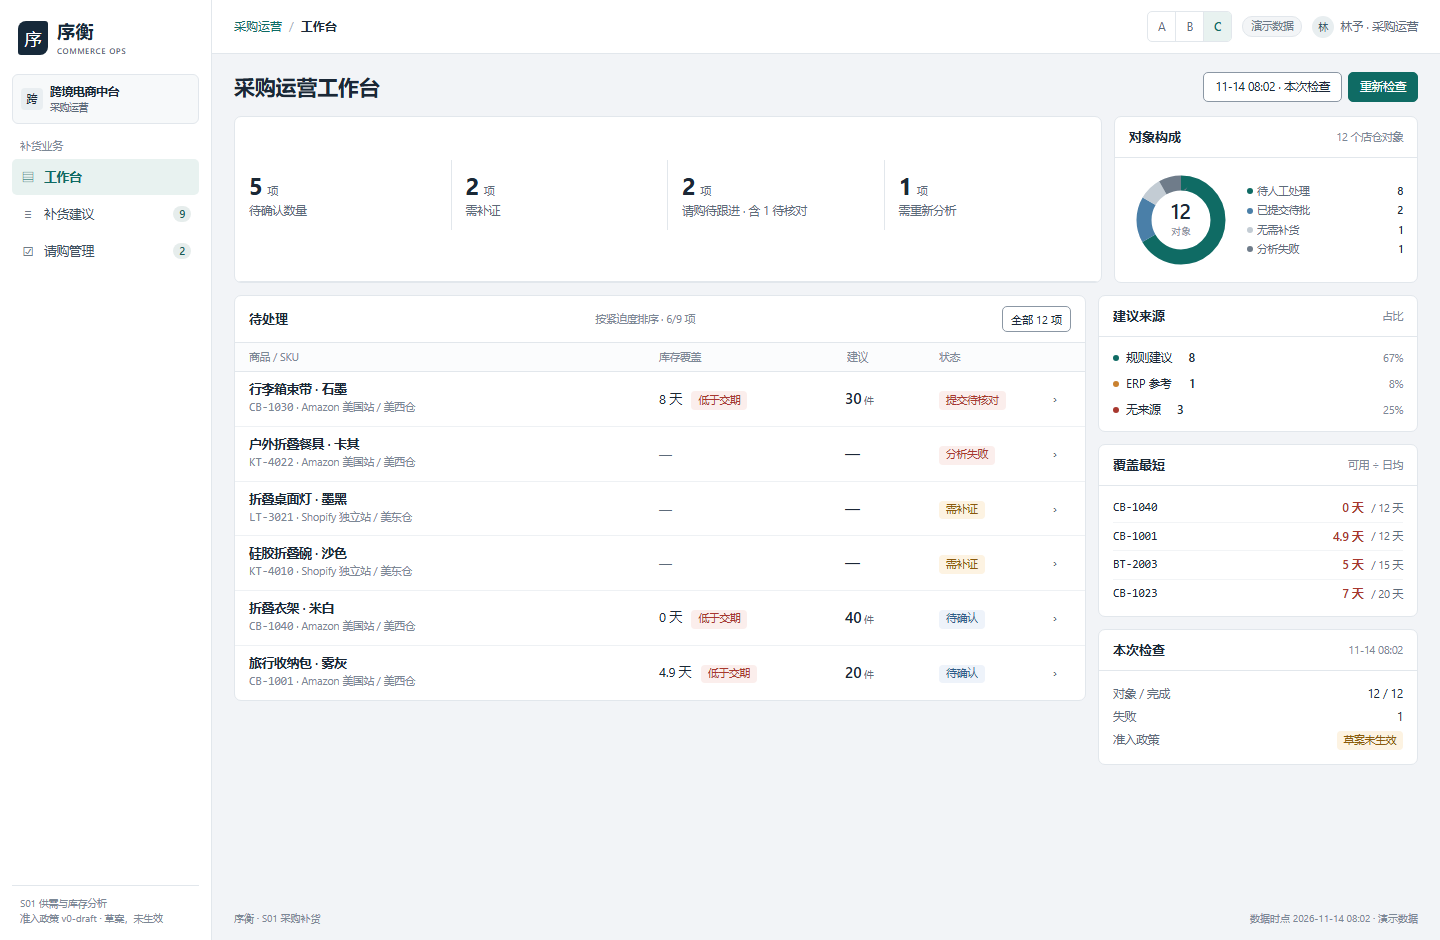
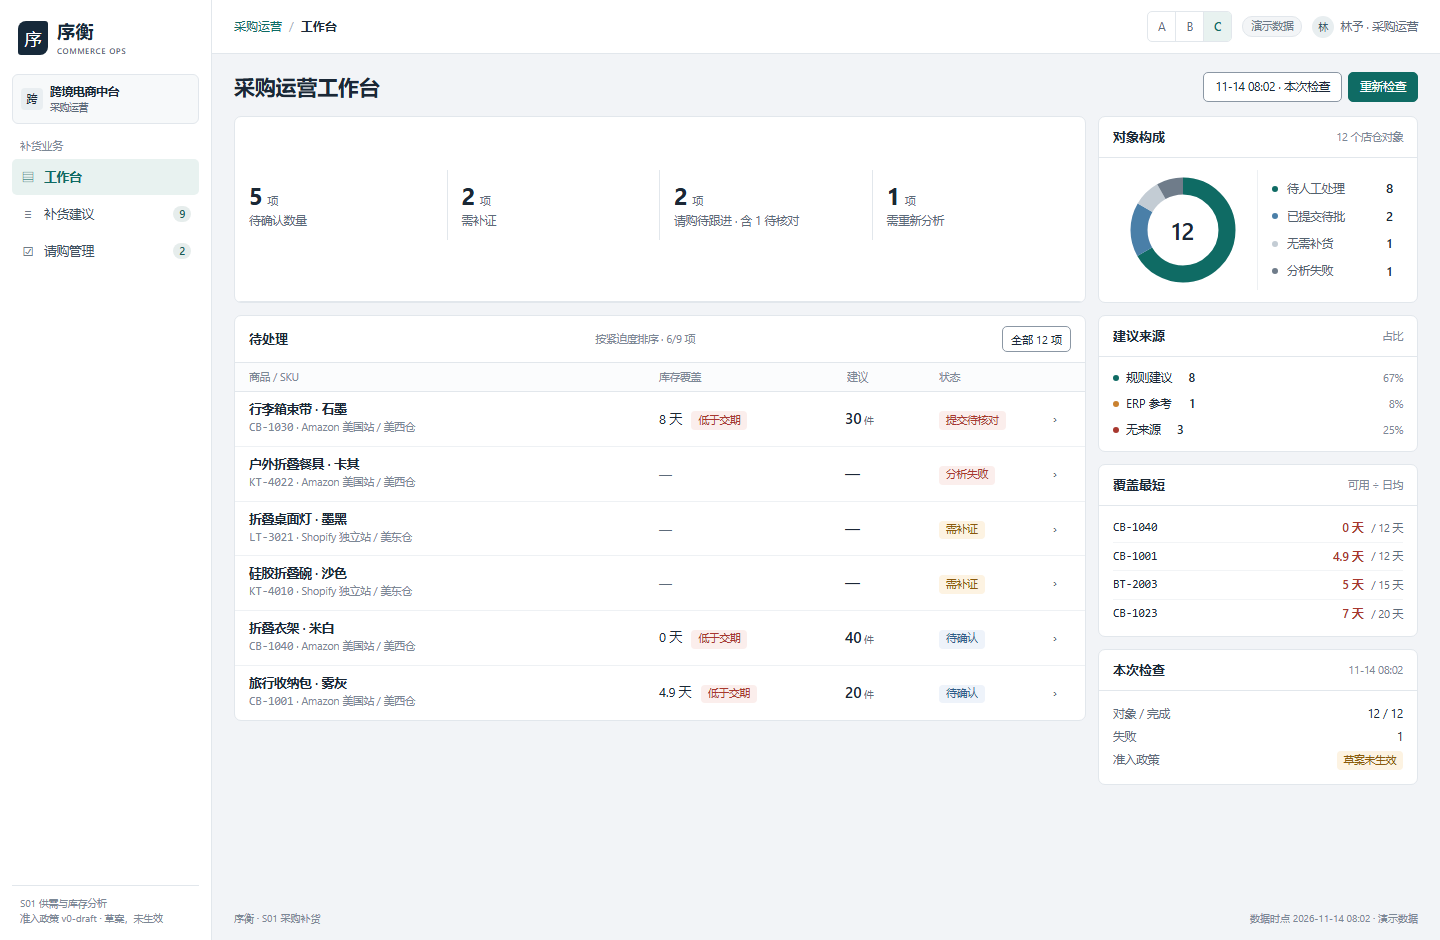
fix(ux): split the composition panel into donut-left / counts-right (v3.2.1)
只改原型、测试、设计文档与截图。

问题
- 对象构成卡在 1280 以下被拆成整行，图例用 margin-left:auto 把数字顶到最右，
  中间留出数百像素空白；圆心还压着“对象”二字，占位但不携带信息

改动
- 卡片布局改为左半环形 / 右半计数，中线分隔，两侧各占一半；环形 104→120px
- 圆心只留总数，删除“对象”二字（垂直居中，dominant-baseline）
- KPI 与构成并排的下限由 1280 降到 900：1080 视口下不再拆行，空白随之消失
- <900 栈叠时构成占满整行，计数铺 2×2（每列 190px 居中），不再只挤在左侧

验证
- _e2e.cjs 改为 file:// 直开（无需本地服务器），78 项断言全通过，新增：
  圆心无“对象”、左饼右数两列宽度对称、计数合计=圆心总数
- 新增 screenshots/after/18-工作台-1080.png 对应本次反馈的视口

REVIEW，不合 main。

diff --git a/prototypes/s01-workbench-v3/index.html b/prototypes/s01-workbench-v3/index.html
@@ -241,14 +241,16 @@ dialog::backdrop{background:#12283b55}
 .close{border:0;background:none;font-size:19px;color:var(--muted);line-height:1}
 #toast{position:fixed;left:50%;bottom:20px;transform:translateX(-50%);background:#16293a;color:#fff;padding:9px 15px;border-radius:5px;font-size:11.5px;z-index:50;max-width:calc(100vw - 24px)}
 /* ---------- v3.2 新增：环形图 / 排行榜 / AI 分区 / 底部操作条 ---------- */
-.wb-top{display:grid;grid-template-columns:minmax(0,1fr) 304px;gap:12px;margin-bottom:12px;align-items:stretch}
+.wb-top{display:grid;grid-template-columns:minmax(0,1fr) 320px;gap:12px;margin-bottom:12px;align-items:stretch}
 .wb-top>.panel{margin:0;display:flex;flex-direction:column}
 .wb-top .kpis{height:100%;align-content:center}
-.donut{display:flex;align-items:center;gap:14px}
-.donut svg{flex:none}
-.dlegend{display:grid;grid-template-columns:1fr;gap:3px;font-size:10.5px;color:var(--muted);min-width:0;flex:1}
-.dlegend span{display:flex;align-items:center;gap:4px;white-space:nowrap;min-width:0}
-.dlegend b{color:var(--ink);font-weight:600;margin-left:auto;padding-left:6px}
+.donut-body{display:grid;grid-template-columns:minmax(0,1fr) minmax(0,1fr);align-items:center;max-width:440px;margin:0 auto;padding:12px 16px}
+.donut-side{display:flex;align-items:center;justify-content:center;padding-right:14px;border-right:1px solid #edf0f3}
+.donut-side svg{display:block}
+.dstats{display:grid;align-content:center;padding-left:14px;min-width:0}
+.dstat{display:grid;grid-template-columns:7px minmax(0,1fr) auto;align-items:center;gap:8px;padding:4px 0;font-size:11.5px;color:#54626f;min-width:0}
+.dstat span{overflow:hidden;text-overflow:ellipsis;white-space:nowrap}
+.dstat b{font-size:12.5px;font-weight:600;color:var(--ink);font-variant-numeric:tabular-nums;text-align:right}
 .rank{display:grid}
 .rank-row{display:grid;grid-template-columns:minmax(0,1fr) auto auto;gap:8px;align-items:center;padding:5px 0;border-bottom:1px solid #f2f4f6;font-size:11.5px}
 .rank-row:last-child{border-bottom:0}
@@ -287,8 +289,14 @@ dialog::backdrop{background:#12283b55}
 /* 单列详情（方案C） */
 .detail.one{grid-template-columns:minmax(0,1fr)}
 @media (max-width:1280px){
-  .wb-top{grid-template-columns:1fr}
   .ai-grid{grid-template-columns:1fr 1fr}
+}
+@media (max-width:900px){
+  .wb-top{grid-template-columns:1fr}
+  /* 栈叠时占满整行：饼图固定左侧，数字铺成 2×2，避免中间空一段 */
+  .donut-body{width:100%;max-width:none;grid-template-columns:auto minmax(0,1fr);column-gap:24px;padding:12px 14px}
+  .donut-side{padding-right:20px}
+  .dstats{grid-template-columns:repeat(2,minmax(0,190px));justify-content:center;column-gap:44px;row-gap:2px;padding-left:0}
 }
 @media (max-width:1000px){
   .actionbar{padding:9px 14px;margin:12px -14px 0}
@@ -751,7 +759,7 @@ function crumb(){
 
 /* ================= 工作台 ================= */
 function donutSvg(segs,total){
-  const cx=52,cy=52,rad=37,sw=15,C=2*Math.PI*rad;
+  const cx=60,cy=60,rad=44,sw=17,C=2*Math.PI*rad;
   let off=0;
   const arcs=segs.map(x=>{
     const len=x[1]/total*C;
@@ -760,10 +768,9 @@ function donutSvg(segs,total){
       transform="rotate(-90 ${cx} ${cy})"><title>${esc(x[0])} ${x[1]} 项${x[3]?'（'+esc(x[3])+'）':''}</title></circle>`;
     off+=len;return el;
   }).join('');
-  return `<svg width="104" height="104" viewBox="0 0 104 104" role="img" aria-label="对象构成：${segs.map(x=>x[0]+' '+x[1]).join('，')}">
+  return `<svg width="120" height="120" viewBox="0 0 120 120" role="img" aria-label="对象构成：${segs.map(x=>x[0]+' '+x[1]).join('，')}">
     <circle cx="${cx}" cy="${cy}" r="${rad}" fill="none" stroke="#eef1f4" stroke-width="${sw}"/>${arcs}
-    <text x="${cx}" y="${cy-1}" text-anchor="middle" style="font:600 21px/1 'Segoe UI',sans-serif;fill:#1b2836">${total}</text>
-    <text x="${cx}" y="${cy+15}" text-anchor="middle" style="font:10px 'Segoe UI',sans-serif;fill:#7c8896">对象</text></svg>`;
+    <text x="${cx}" y="${cy}" text-anchor="middle" dominant-baseline="central" style="font:600 24px/1 'Segoe UI',sans-serif;fill:#1b2836">${total}</text></svg>`;
 }
 
 function pageWorkbench(){
@@ -827,10 +834,9 @@ function pageWorkbench(){
     </section>
     <section class="panel">
       <div class="panel-head"><h2>对象构成</h2><span class="sub">${total} 个店仓对象</span></div>
-      <div class="panel-body" style="padding:10px 14px">
-        <div class="donut">${donutSvg(segs,total)}
-          <div class="dlegend">${segs.map(x=>`<span title="${esc(x[3]||'')}"><i class="dot" style="background:${x[2]}"></i>${x[0]}<b>${x[1]}</b></span>`).join('')}</div>
-        </div>
+      <div class="panel-body donut-body">
+        <div class="donut-side">${donutSvg(segs,total)}</div>
+        <div class="dstats">${segs.map(x=>`<div class="dstat" title="${esc(x[3]||'')}"><i class="dot" style="background:${x[2]}"></i><span>${x[0]}</span><b>${x[1]}</b></div>`).join('')}</div>
       </div>
     </section>
   </div>

diff --git a/docs/reports/S01_UX_V3.2_可视化选型与AI分区_20261114.md b/docs/reports/S01_UX_V3.2_可视化选型与AI分区_20261114.md
@@ -3,7 +3,8 @@
 - 分支：`review/workbuddy-s01-ux` · 日期：2026-11-14 · 状态：**REVIEW**
 - 范围：只改原型、测试、设计文档与截图；未改 `frontend/`、`src/`、`migrations/`、`tests/`
 - 原型：`prototypes/s01-workbench-v3/index.html`（顶部 A / B / C 可切布局，URL 亦可 `?v=a|b|c`）
-- 验收：CDP 驱动真实 Edge，三档宽度，**76 项断言全部通过**
+- 验收：CDP 驱动真实 Edge，三档宽度，**78 项断言全部通过**
+- 增量修订（v3.2.1，同日）：对象构成卡片改为**左饼右数、中线分隔**，去掉圆心“对象”二字；卡片与 KPI 并排的下限由 1280 降到 900，窄窗栈叠时数字铺成 2×2，详见 §1 第 1 行与 §7
 
 ## 0. 一句话
 
@@ -15,7 +16,7 @@
 
 | # | 区域 | 要传达的信息 | 候选形式 | 最终 | 依据 |
 |---|---|---|---|---|---|
-| 1 | 工作台·对象构成 | 12 个对象里多少要处理、多少已了结 | 7 段堆叠条 / 7 段环形 / 4 组环形 / 纯数字 | **4 组环形（104px）** | 7 段在 104px 下每段 30° 不可辨，且 5 个"1 项"互相无法区分。按**处置动作**归 4 组（待人工处理 8 / 已提交待批 2 / 无需补货 1 / 分析失败 1），环形负责"形状"，明细在 KPI 与图例 `title` |
+| 1 | 工作台·对象构成 | 12 个对象里多少要处理、多少已了结 | 7 段堆叠条 / 7 段环形 / 4 组环形 / 纯数字 | **4 组环形（120px）＋左饼右数** | 7 段在 104px 下每段 30° 不可辨，且 5 个"1 项"互相无法区分。按**处置动作**归 4 组（待人工处理 8 / 已提交待批 2 / 无需补货 1 / 分析失败 1），环形负责"形状"，明细以**右半栏计数**呈现，悬停 `title` 展开组内明细。左半环、右半数、中线分隔：一眼扫左边看形状，扫右边读数字，不必在长条里来回找 |
 | 2 | 工作台·建议来源 | 规则 / ERP 参考 / 无来源 的占比 | 环形 / 堆叠条 / 数字+百分比 | **数字 + 百分比 + 色点** | 只有 3 类，占比用数字直读比任何图形都快；且环形已被 #1 占用，同页两个环形属重复表达 |
 | 3 | 工作台·覆盖最短 | 谁的库存最先见底 | 横向条形排行 / 带天数与交期的排行 | **排行（覆盖天数 / 交期天数）** | 条形只能表达"相对长短"，而这里要比的是**两个真实数值的差**（覆盖 4.9 天 vs 交期 12 天）；数字直读 + 短于交期标红，比条形精确 |
 | 4 | 列表·库存列 | 该 SKU 库存够不够 | 行内条形 / 数字+覆盖天数 | **`55 / 75` + `覆盖 4.9 天` + 风险标签** | 待补货对象的填充率**必然 <100%**，条形不提供额外信息；覆盖天数才是可比、可决策的量。同时消除与 #3 的同形重复 |
@@ -192,7 +193,7 @@ node _e2e.cjs          # 结果写入 _e2e-result.json
 | 文件 | 说明 |
 |---|---|
 | `prototypes/s01-workbench-v3/index.html` | V3.2 原型（含 A/B/C 布局开关） |
-| `prototypes/s01-workbench-v3/_e2e.cjs` | 真实浏览器验收脚本（76 项） |
+| `prototypes/s01-workbench-v3/_e2e.cjs` | 真实浏览器验收脚本（78 项；已改为 `file://` 直开，无需本地服务器） |
 | `prototypes/s01-workbench-v3/_e2e-result.json` | 最近一次结果 |
 | `screenshots/after/` | 17 张：工作台/列表/详情各状态/台账/三档宽度/三种布局 |
 | `screenshots/v31/`、`screenshots/before/` | 历史对照 |

diff --git a/docs/ui/S01_UX_V3_IA与页面设计_20261114.md b/docs/ui/S01_UX_V3_IA与页面设计_20261114.md
@@ -5,6 +5,7 @@
 - 前置阅读：`docs/reports/S01_UX问题清单与代码定位_20261114.md`
 - 状态：**设计评审稿**。未实施，不改业务规则，不解除四项企业门。
 - 2026-11-14 修订（v3.1）：ERP 参考建议改为核对采购条件后可提交（方案 B）；SKU 详情改为“结论条 + 图形 + 分区”；工作台与请购页布局调整。见 `S01_UX_V3.1_整改说明与前后对比_20261114.md`。
+- 2026-11-14 修订（v3.2.1）：对象构成改为左饼右数、去圆心文字；KPI 与构成并排的下限由 1280 降到 900，窄窗栈叠时计数铺 2×2。
 - 2026-11-14 修订（v3.2）：全站图表重新选型（删除 4 处横向条形与 1 处重复分布图，工作台改 4 组环形）；**AI 升级为独立分区并前置到结论条之后**，操作改为底部常驻条（方案 C）；修复排序、零库存、ERP 提交流程三项遗留问题。见 `S01_UX_V3.2_可视化选型与AI分区_20261114.md`。
 
 ## 1. 设计出发点：采购运营一天在做什么
@@ -144,7 +145,7 @@ interface AdmissionPolicy {
 ```
 [页头] 采购运营工作台                  [批次 · 本次检查] [重新检查]
 [顶部左] 4 个待办数字：待确认 / 需补证 / 请购跟进 / 需重新分析
-[顶部右] 对象构成环形（4 组：待人工处理 / 已提交待批 / 无需补货 / 分析失败），中心为对象总数
+[顶部右] 对象构成卡：左半环（4 组：待人工处理 / 已提交待批 / 无需补货 / 分析失败，中心只放总数），右半为组计数；中线分隔，两侧各占一半
 [主区 2/3] 待处理（列头：商品·SKU / 库存覆盖 / 建议 / 状态；按紧迫度排序，最多 6 项；覆盖列显示天数与风险标签，不画条）
 [右栏 1/3] 建议来源分布 / 库存覆盖最低 4 项 / 本次检查（对象、失败、政策草案徽标）
 ```

diff --git a/prototypes/s01-workbench-v3/README.md b/prototypes/s01-workbench-v3/README.md
@@ -42,7 +42,7 @@ python -m http.server 8766 --bind 127.0.0.1
 
 | 图形 | 数据 | 说明 |
 |---|---|---|
-| 对象构成环形（4 组） | 按处置动作分组的计数 | 7 状态在 104px 下不可辨，故分组；明细在 KPI 与图例 `title` |
+| 对象构成（左环右数） | 按处置动作分组的计数 | 7 状态在 120px 下不可辨，故归 4 组；左半环看形状、右半读数字，中线分隔；明细在 `title` |
 | 结存折线 | `available` 起算的逐日结存 | 0 轴、负结存区、到货竖线；首次短缺由曲线派生 |
 | 销量柱 + 日均线 | 已核对业务日销量 | 日均未知时不画均线 |
 | 在途比例条 | 采购 / 已收 / 待收 | 仅在有正式单据时渲染 |
